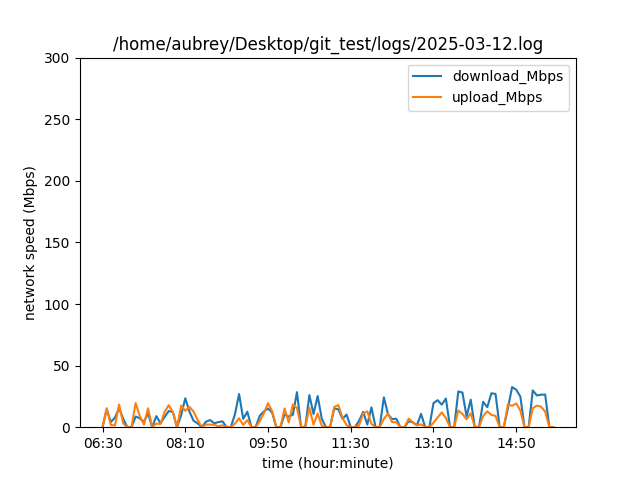
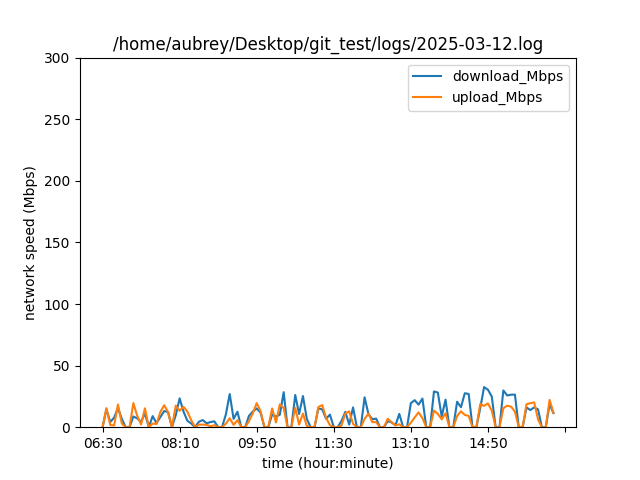
added by gitpush.sh

Changed region(s): [[0.1562, 0.8125, 0.875, 0.9375]]

diff --git a/test.py b/test.py
@@ -3,7 +3,7 @@ from icecream import ic
 import pandas as pd
 import matplotlib.pyplot as plt
 
-LOG_PATH = '/home/aubrey/Desktop/git_test/logs/2025-03-12.log'
+LOG_PATH = '/home/aubrey/Desktop/git_test/logs/2025-03-18.log'
 
 # Read the log file
 with open(LOG_PATH) as f:
@@ -34,7 +34,7 @@ df['timestamp'] = pd.to_datetime(df['timestamp'])
 df['HM'] = df['timestamp'].dt.strftime('%H:%M')
 df['download_Mbps'] = df['download_Mbps'].astype(float)
 df['upload_Mbps'] = df['upload_Mbps'].astype(float)
-# ic(df)
+ic(df)
 
 # Plot the data and save as PNG
 df.plot(

diff --git a/README.md b/README.md
@@ -2,7 +2,7 @@
 
 This command performs a speedtest and writes results to a log file.
 ```
-(date +'%Y-%m-%dT%H:%M:%S:%z';speedtest)>>/home/aubrey/Desktop/speedtest-$(date +'%Y-%m-%d').log
+(date +'%Y-%m-%dT%H:%M:%S:%z';speedtest)>>/home/aubrey/Desktop/logs/speedtest-$(date +'%Y-%m-%d').log
 ```
 
 This command syncs with a GitHub repository.
